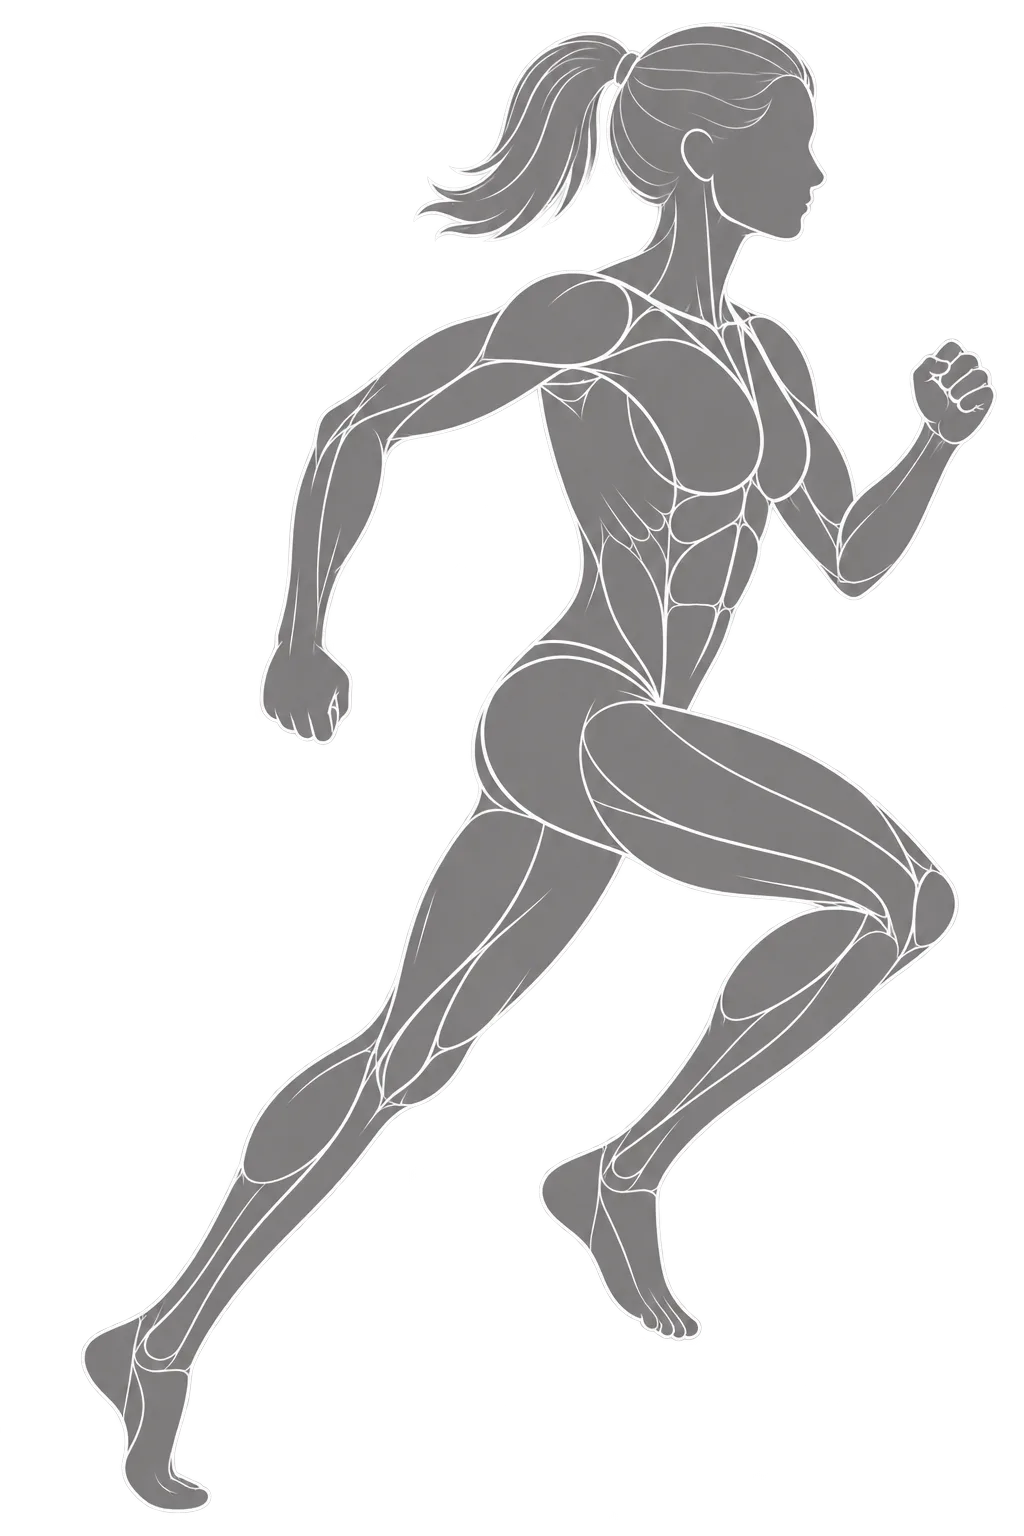
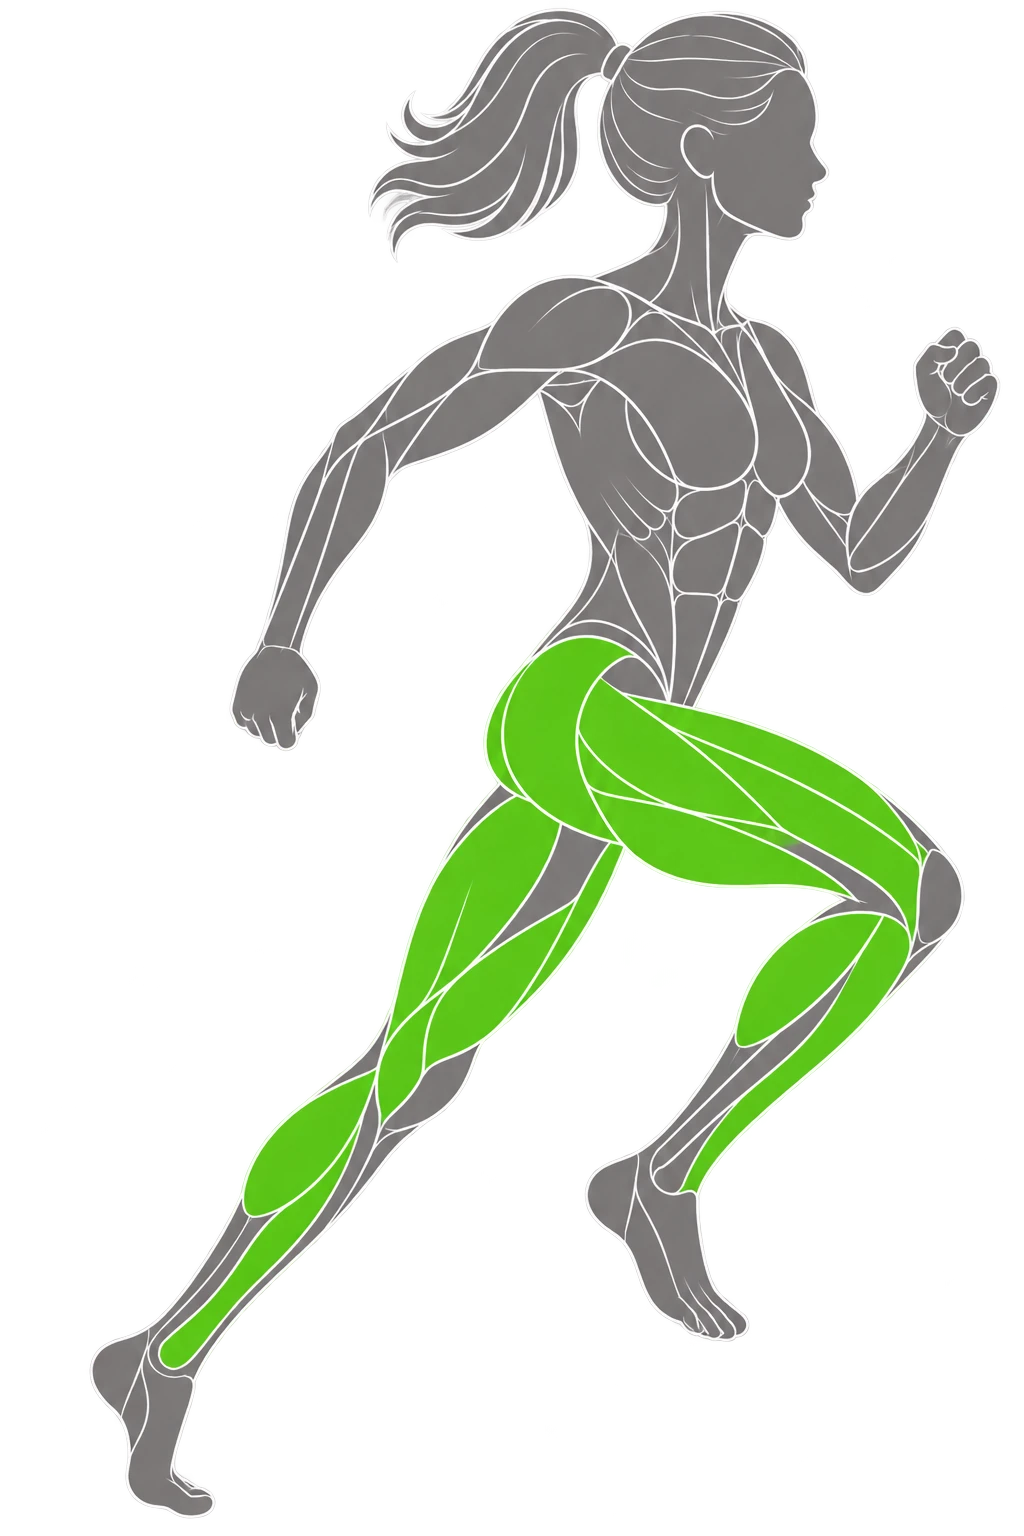
💄 style(anatomy): renovar las siluetas de carrera
Convierte a WebP las nuevas siluetas de carrera que llegaron como PNG en
docs/forma_muscle_overlays y sustituye las que había en assets.

La masculina cambia de 1109x1419 a 996x1579, así que SILHOUETTE_SIZE se
actualiza con las nuevas medidas: ese mapa alimenta el aspect-ratio de la
caja, y dejar los números viejos aplastaba al corredor.

diff --git a/frontend/src/components/MuscleSilhouette.tsx b/frontend/src/components/MuscleSilhouette.tsx
@@ -64,8 +64,8 @@ function silhouetteUrl(sex: AnatomySex, sheet: string): string | undefined {
 /**
  * Pixel size of each silhouette, so the box can carry that art's own aspect
  * ratio. They are not interchangeable — the anatomical sheets are tall and
- * narrow (854x1840) while the running and rest bodies are almost square — so a
- * single hardcoded ratio stretched the runner past the bottom of its card.
+ * narrow (854x1840) while the running and rest bodies are wider — so a single
+ * hardcoded ratio stretched the runner past the bottom of its card.
  *
  * <p>Measured from the files themselves; the pack's `muscle-map.json` only
  * documents the two anatomical sheets. Mask alignment depends on the front and
@@ -74,7 +74,7 @@ function silhouetteUrl(sex: AnatomySex, sheet: string): string | undefined {
 const SILHOUETTE_SIZE: Readonly<Record<string, readonly [number, number]>> = {
   'male/front': [854, 1840],
   'male/back': [854, 1842],
-  'male/run': [1109, 1419],
+  'male/run': [996, 1579],
   'male/rest': [1109, 1419],
   'female/front': [854, 1842],
   'female/back': [854, 1842],
